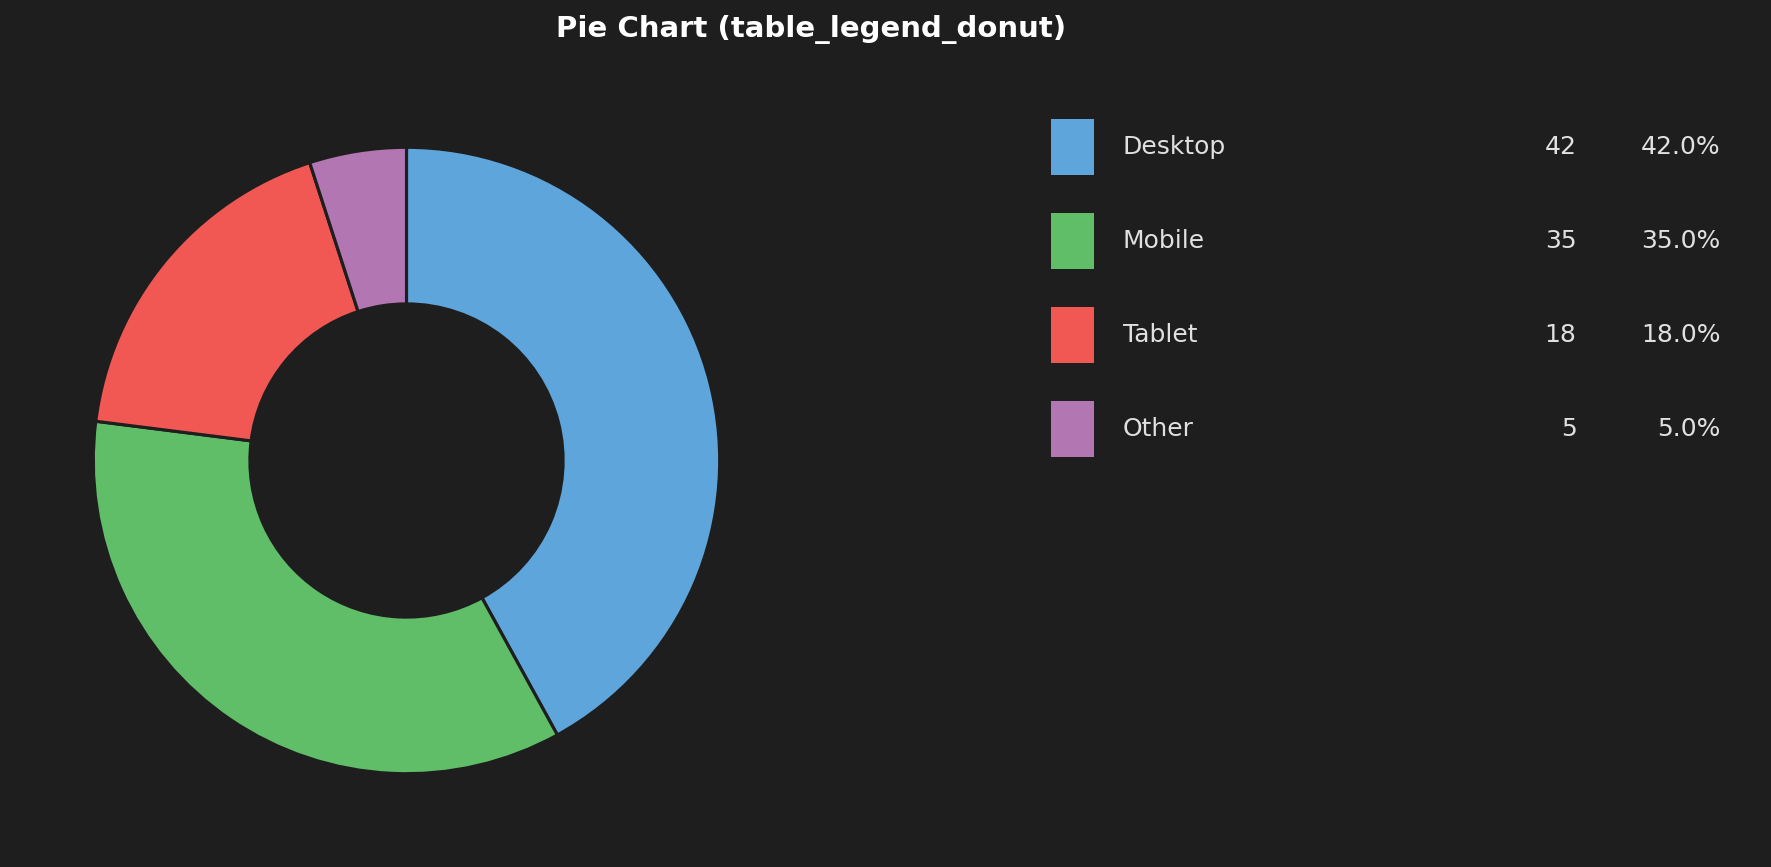
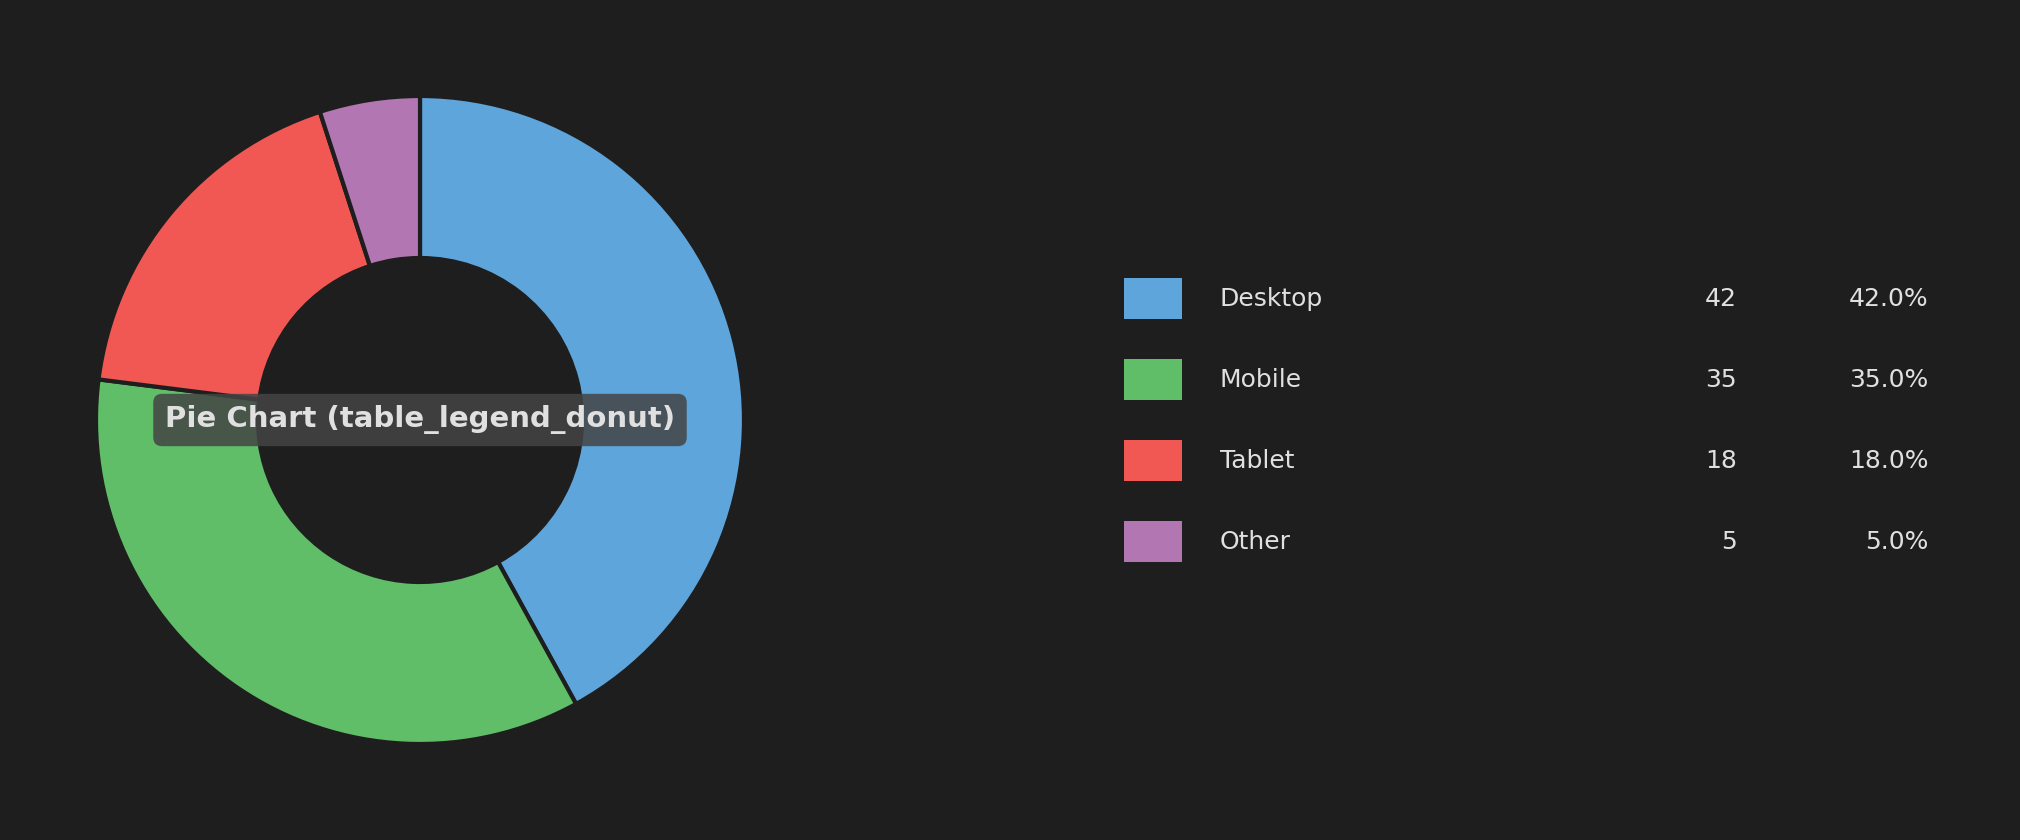
improved the pie legends in pie chart

diff --git a/src/charter/charts/pie.py b/src/charter/charts/pie.py
@@ -522,13 +522,13 @@ class PieChart(BaseChart):
         position = self.style.table_legend_position
         
         if position == "right":
-            fig = plt.figure(figsize=(figsize[0] * 1.4, figsize[1]))
-            gs = GridSpec(1, 2, width_ratios=[3, 2], wspace=0.1)
+            fig = plt.figure(figsize=(figsize[0] * 1.5, figsize[1]))
+            gs = GridSpec(1, 2, width_ratios=[1.2, 1], wspace=0.05)
             ax_pie = fig.add_subplot(gs[0])
             ax_legend = fig.add_subplot(gs[1])
         elif position == "left":
-            fig = plt.figure(figsize=(figsize[0] * 1.4, figsize[1]))
-            gs = GridSpec(1, 2, width_ratios=[2, 3], wspace=0.1)
+            fig = plt.figure(figsize=(figsize[0] * 1.5, figsize[1]))
+            gs = GridSpec(1, 2, width_ratios=[1, 1.2], wspace=0.05)
             ax_legend = fig.add_subplot(gs[0])
             ax_pie = fig.add_subplot(gs[1])
         else:  # bottom
@@ -554,21 +554,36 @@ class PieChart(BaseChart):
             shadow=self.style.shadow,
             wedgeprops={
                 "width": donut_width,
-                "linewidth": 1.5,
+                "linewidth": 2,
                 "edgecolor": self.theme.background_color,
             },
         )
         
-        # Handle donut style with center hole for non-wedgeprops approach
-        # (wedgeprops width handles this automatically)
-        
         ax_pie.set_aspect("equal")
         
-        # Render table legend
+        # Add center title for donut charts
+        if self.style.donut and self.style.center_title:
+            center_text = self.data.get("center_title") or self.title or ""
+            if center_text:
+                if self.style.center_title_bbox:
+                    self._add_center_title_with_box(ax_pie, center_text)
+                else:
+                    ax_pie.text(
+                        0, 0,
+                        center_text,
+                        ha="center",
+                        va="center",
+                        fontsize=self.theme.title_font_size,
+                        fontweight="bold",
+                        color=self.theme.text_color,
+                        fontfamily=self.theme.font_family,
+                    )
+        
+        # Render table legend (centered)
         self._render_legend_table(ax_legend, labels, values, colors, position)
         
-        # Add title if provided
-        if self.title:
+        # Add figure title only if not using center title for donut
+        if self.title and not (self.style.donut and self.style.center_title):
             fig.suptitle(
                 self.title,
                 fontsize=self.theme.title_font_size,
@@ -579,7 +594,7 @@ class PieChart(BaseChart):
             )
         
         # Adjust spacing (tight_layout doesn't work well with GridSpec)
-        plt.subplots_adjust(left=0.05, right=0.95, top=0.92, bottom=0.05)
+        plt.subplots_adjust(left=0.02, right=0.98, top=0.95, bottom=0.05)
         
         return fig
     
@@ -593,6 +608,7 @@ class PieChart(BaseChart):
     ) -> None:
         """
         Render the table legend with color indicators, labels, values, and percentages.
+        Center-aligned both vertically and horizontally.
         
         Args:
             ax: matplotlib Axes for the legend
@@ -616,18 +632,25 @@ class PieChart(BaseChart):
             self._render_legend_table_horizontal(ax, labels, values, colors, total)
             return
         
-        # Vertical layout (right or left)
-        # Define column positions
-        col_color = 0.02
-        col_label = 0.12
-        col_value = 0.75 if show_percent else 0.9
-        col_percent = 0.95
+        # Vertical layout (right or left) - CENTER ALIGNED
+        # Calculate row dimensions
+        row_height = min(0.1, 0.7 / max(n_rows, 1))
         
-        # Calculate row height based on number of items
+        # Calculate total table height for vertical centering
         header_offset = 1 if show_header else 0
         total_rows = n_rows + header_offset
-        row_height = min(0.12, 0.9 / total_rows)
-        start_y = 0.95 - (0.1 if show_header else 0.05)
+        total_table_height = total_rows * row_height
+        
+        # Center vertically: start_y is the top of the first row
+        start_y = 0.5 + (total_table_height / 2) - (row_height / 2)
+        
+        # Define column positions (centered horizontally with padding)
+        # Table content spans from 0.08 to 0.92 (84% width, centered)
+        table_left = 0.08
+        col_color = table_left
+        col_label = table_left + 0.1
+        col_value = 0.72 if show_percent else 0.88
+        col_percent = 0.92
         
         # Add headers if enabled
         if show_header:
@@ -660,17 +683,20 @@ class PieChart(BaseChart):
                     ha="right",
                     va="center",
                 )
+            # Move data rows down after header
+            start_y = start_y - row_height * 0.3
         
-        # Render each row
+        # Render each row (centered vertically)
         for i, (label, value, color) in enumerate(zip(labels, values, colors)):
             y = start_y - (i * row_height)
             pct = (value / total) * 100 if total > 0 else 0
             
-            # Color indicator (small rectangle)
+            # Color indicator (small square, centered vertically on the row)
+            rect_size = row_height * 0.5
             rect = Rectangle(
-                (col_color, y - row_height * 0.3),
-                0.06,
-                row_height * 0.6,
+                (col_color, y - rect_size / 2),
+                rect_size * 1.2,
+                rect_size,
                 facecolor=color,
                 edgecolor="none",
             )

diff --git a/src/charter/styles/presets.py b/src/charter/styles/presets.py
@@ -210,6 +210,11 @@ PIE_STYLES: dict[str, PieStyle] = {
         donut=True,
         donut_ratio=0.5,
         table_legend=True,
+        center_title=True,
+        center_title_bbox=True,
+        center_title_bbox_facecolor="#444444",
+        center_title_bbox_alpha=0.85,
+        center_title_bbox_pad=0.4,
         show_percentages=False,
         show_labels=False,
     ),

diff --git a/README.md b/README.md
@@ -198,17 +198,36 @@ await generate_chart(
 
 #### Table Legend Style (Side Legend with Values)
 
+Displays the pie/donut chart on the left with a centered table legend on the right showing color indicators, labels, values, and percentages.
+
 ```python
+# Regular pie with table legend
 await generate_chart(
     chart_type="pie",
     data={
         "labels": ["Desktop", "Mobile", "Tablet", "Other"],
         "values": [42, 35, 18, 5],
     },
-    style="table_legend",  # Or "table_legend_donut" for donut variant
+    style="table_legend",
     title="Traffic by Device",
 )
+
+# Donut with center title and table legend
+await generate_chart(
+    chart_type="pie",
+    data={
+        "labels": ["Desktop", "Mobile", "Tablet", "Other"],
+        "values": [42, 35, 18, 5],
+    },
+    style="table_legend_donut",
+    title="Device Share",  # Shows in center of donut with background box
+)
 ```
+
+The table legend position is configurable via style options:
+- `table_legend_position`: `"right"` (default), `"left"`, or `"bottom"`
+- `table_legend_show_value`: Show/hide value column
+- `table_legend_show_percent`: Show/hide percentage column
 
 #### Pie Styles
 
@@ -223,8 +242,8 @@ await generate_chart(
 | `infographic` | External labels with leader lines |
 | `annotated` | Annotation-based labels with rounded boxes, custom colors, gaps, center title |
 | `transparent_donut` | Donut with transparent background and center title with rounded box |
-| `table_legend` | Pie chart with table legend on the side showing labels, values, and percentages |
-| `table_legend_donut` | Donut chart with table legend on the side |
+| `table_legend` | Pie chart with centered table legend on the side showing labels, values, and percentages |
+| `table_legend_donut` | Donut chart with center title (with background box) and centered table legend on the side |
 
 ---
 
